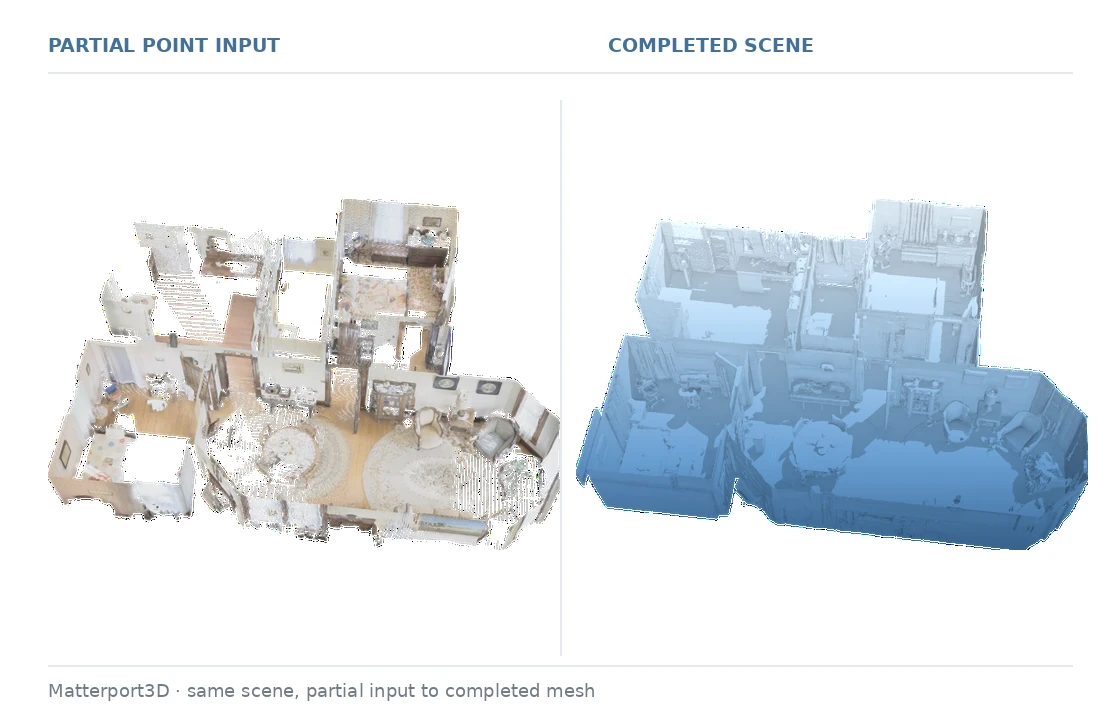
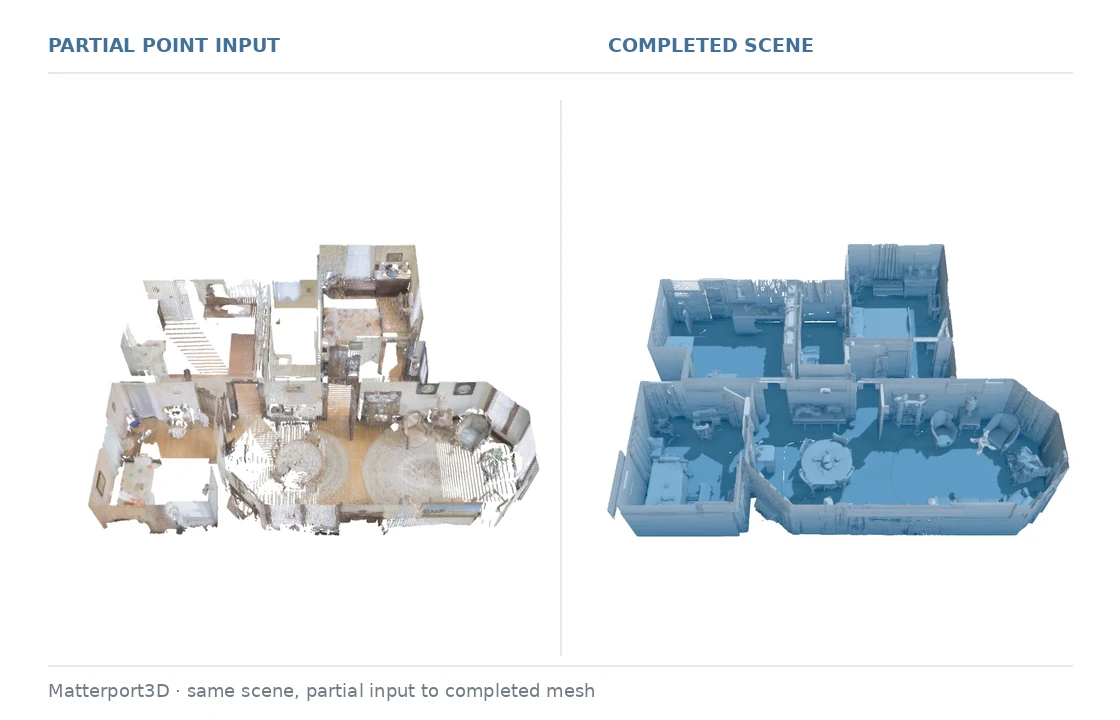
Match Research preview to method video

Changed region(s): [[0.0312, 0.275, 0.9688, 0.7639]]

diff --git a/index.html b/index.html
@@ -167,8 +167,8 @@
         <div class="publication-list">
           <article class="publication-card">
             <a class="publication-media media-contain" href="anchor-complete/" aria-label="Open the AnchorComplete project page">
-              <img loading="lazy" src="images/anchorcomplete_pipeline_thumb.webp?v=blue-height-ramp-gif-v3" alt="Matterport3D apartment partial point cloud and completed AnchorComplete mesh">
-              <img class="media-animated" loading="lazy" src="images/anchorcomplete_pipeline_hover.gif?v=blue-height-ramp-gif-v3" alt="AnchorComplete completion animation: partial point input, coarse-to-fine voxel denoising, and the completed blue-gradient mesh">
+              <img loading="lazy" src="images/anchorcomplete_pipeline_thumb.webp?v=video-render-gif-v4" alt="Matterport3D apartment partial point cloud and completed AnchorComplete mesh">
+              <img class="media-animated" loading="lazy" src="images/anchorcomplete_pipeline_hover.gif?v=video-render-gif-v4" alt="AnchorComplete completion animation: partial point input, coarse-to-fine voxel denoising, and the completed scene mesh rendered in the project video">
             </a>
             <div class="publication-copy">
               <p class="venue-tags"><span class="venue-tag">arXiv</span></p>
